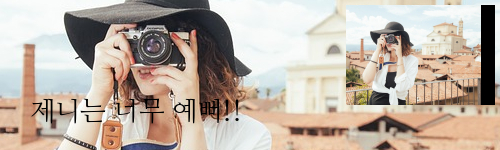
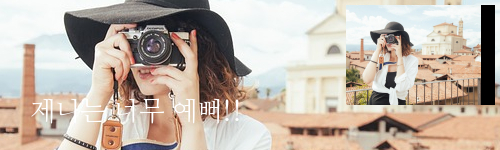
ImageGDS v1.2 폰트 컬러 버그 수정

Changed region(s): [[0.06, 0.64, 0.48, 0.8267]]

diff --git a/classes/annona/image/ImageGDS.class.php b/classes/annona/image/ImageGDS.class.php
@@ -4,12 +4,13 @@ namespace Flex\Annona\Image;
 # purpose : 이미지 효과주기
 class ImageGDS
 {
+	const VERSION = '1.2';
 	public $filename;
 
 	public $im;
 	private $quality = 100;
 	private $bgcolor = 0x7fffffff;
-	private $fontsrc, $fontangle=0, $fontcolor = [0,0,0], $fontsize = 20, $x=5, $y=5;
+	private $fontsrc, $fontangle=0, $color = [0,0,0], $fontsize = 20, $x=5, $y=5;
 
 	# 시작
 	public function __construct(string|null $filename=null){
@@ -82,7 +83,7 @@ class ImageGDS
 		self::setAlphablending($this->im);
 		self::setFilledrectangle($this->im,0,0,$width,$height,$this->bgcolor);
 
-		$fontcolor = self::setColorallocate($this->im,$this->fontcolor[0],$this->fontcolor[1],$this->fontcolor[2]);
+		$fontcolor = self::setColorallocate($this->im,$this->color[0],$this->color[1],$this->color[2]);
 		self::setFttext($this->im,$fontcolor,$text);
 		self::setSavealpha($this->im,true);
 	}
@@ -116,7 +117,7 @@ class ImageGDS
 	public function combineImageText(int $width, int $height, string $text, string|null $filename=null) : void{
 		$this->im = self::createTrueImage($width,$height);
 		self::setAntialias($this->im,true);
-		$fontcolor = self::setColorallocate($this->im,$this->fontcolor[0],$this->fontcolor[1],$this->fontcolor[2]);
+		$fontcolor = self::setColorallocate($this->im,$this->color[0],$this->color[1],$this->color[2]);
 
 		$filename = ($filename) ? $filename : $this->filename;
 		if(!$filename) throw new \Exception(__CLASS__,':'.__METHOD__.':'.__LINE__);

diff --git a/test/image_gds.php b/test/image_gds.php
@@ -62,7 +62,7 @@ try{
     $imageGDS = new \Flex\Annona\Image\ImageGDS();
     $imageGDS->setBgColor(0x7fffffff);
     $imageGDS->setFont(_ROOT_PATH_.'/fonts/NanumMyeongjo-YetHangul.ttf');
-    $imageGDS->setFontColor([0,0,0]);
+    $imageGDS->setFontColor([213,213,213]);
     $imageGDS->setFontSize(20);
     $imageGDS->setXY(5,40);
     $imageGDS->writeTextImage(500,60,'의장, 설 앞두고 용산노인복지관');
@@ -96,6 +96,13 @@ try{
     $imageGDS->filterWatermarks($model->dir.'/gd_shadowtext.png', 3, 3, 'LB');
     $imageGDS->write($model->dir.'/gd_combine_showdowtext.png');
     Log::d($model->dir.'/gd_combine_showdowtext.png');
+
+
+    Log::d('타이틀 이미지와 합성');
+    $imageGDS = new \Flex\Annona\Image\ImageGDS($model->dir.'/gd_crop_500x150_x150_y100.jpg');
+    $imageGDS->filterWatermarks($model->dir.'/gd_title_image.png', 3, 3, 'LB');
+    $imageGDS->write($model->dir.'/gd_combine_gd_title.png');
+    Log::d($model->dir.'/gd_combine_gd_title.png');
 
 }catch(\Exception $e){
     Log::e($e->getMessage());
